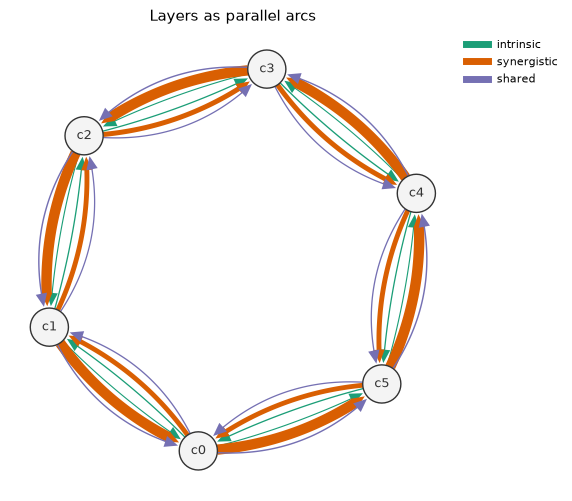
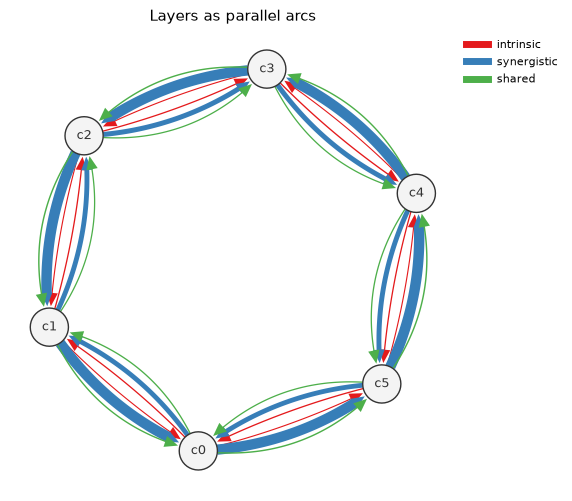
draw: red intrinsic, blue synergistic, green shared

diff --git a/infoflow/draw.py b/infoflow/draw.py
@@ -32,12 +32,19 @@ from .layers import LAYERS
 
 __all__ = ("LAYER_COLORS", "Scene", "draw", "node_positions", "save", "scene")
 
-#: Layer colours (ColorBrewer Dark2).
-LAYER_COLORS = {"intrinsic": "#1b9e77", "synergistic": "#d95f02", "shared": "#7570b3"}
+#: Layer colours (ColorBrewer Set1): red intrinsic, blue synergistic, green shared.
+LAYER_COLORS = {"intrinsic": "#e41a1c", "synergistic": "#377eb8", "shared": "#4daf4a"}
+LAYER_CMAPS = {"intrinsic": "Reds", "synergistic": "Blues", "shared": "Greens"}
 _NODE = "#f4f4f4"
 _INK = "#333333"
 _FAINT = "#b0b0b0"
-_HYPER = {"synergistic": "#d95f02", "redundant": "#7570b3", "unique-dominated": "#1b9e77", "mixed": "#888888"}
+# Hyperedge labels in the colour of the layer they resemble.
+_HYPER = {
+    "synergistic": LAYER_COLORS["synergistic"],
+    "redundant": LAYER_COLORS["shared"],
+    "unique-dominated": LAYER_COLORS["intrinsic"],
+    "mixed": "#888888",
+}
 NODE_RADIUS = 0.1
 
 
@@ -592,7 +599,7 @@ def _render_matrices(network, layers, significant_only, backend, common_scale=Fa
             panels.append(
                 hv.HeatMap(rows, kdims=["source", "target"], vdims=["bits"]).opts(
                     title=layer,
-                    cmap="Greens" if layer == "intrinsic" else "Oranges" if layer == "synergistic" else "Purples",
+                    cmap=LAYER_CMAPS.get(layer, "Greys"),
                     colorbar=True,
                     tools=["hover"],
                     width=300,
@@ -608,7 +615,7 @@ def _render_matrices(network, layers, significant_only, backend, common_scale=Fa
 
     fig, axes = plt.subplots(1, len(mats), figsize=(3.4 * len(mats), 3.2), squeeze=False)
     for a, (layer, w) in zip(axes[0], mats.items(), strict=True):
-        cmap = {"intrinsic": "Greens", "synergistic": "Oranges", "shared": "Purples"}.get(layer, "Greys")
+        cmap = LAYER_CMAPS.get(layer, "Greys")
         im = a.imshow(np.ma.masked_invalid(w.T), cmap=cmap, vmin=0, vmax=vmax)
         a.set_xticks(range(len(names)), names, rotation=90, fontsize=7)
         a.set_yticks(range(len(names)), names, fontsize=7)
